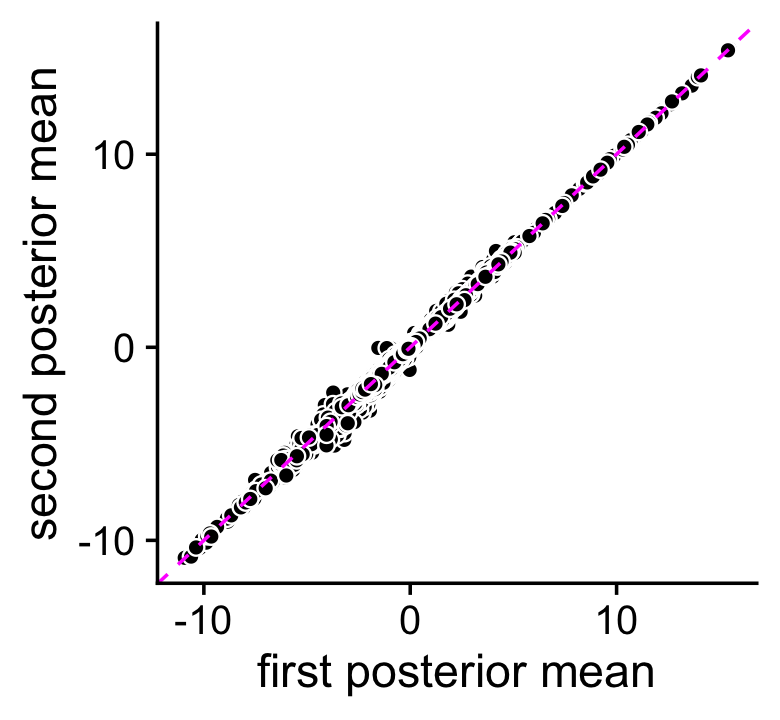
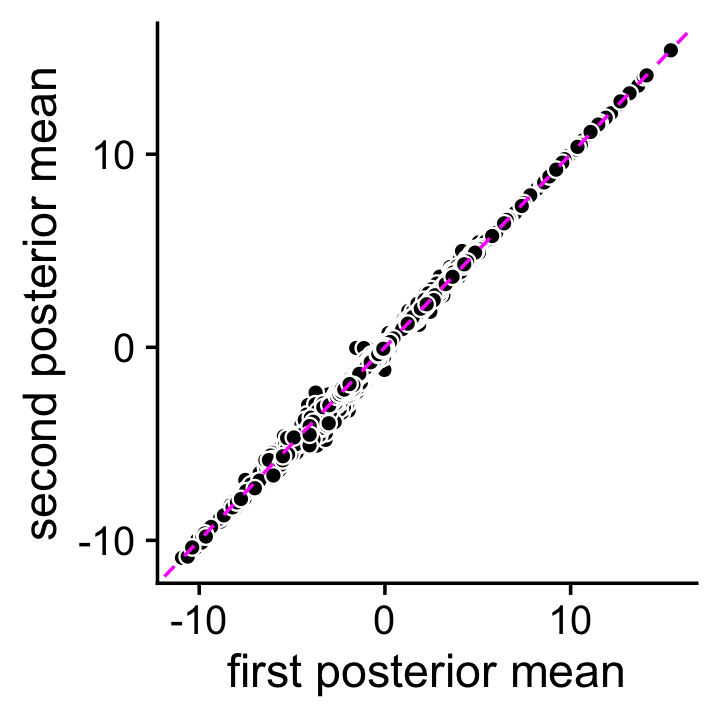
Working on de_analysis_purified_pbmc analysis.

diff --git a/docs/de_analysis_purified_pbmc.html b/docs/de_analysis_purified_pbmc.html
@@ -305,7 +305,7 @@ $(document).ready(function () {
 
 <p>
 <button type="button" class="btn btn-default btn-workflowr btn-workflowr-report" data-toggle="collapse" data-target="#workflowr-report">
-<span class="glyphicon glyphicon-list" aria-hidden="true"></span> workflowr <span class="glyphicon glyphicon-ok text-success" aria-hidden="true"></span>
+<span class="glyphicon glyphicon-list" aria-hidden="true"></span> workflowr <span class="glyphicon glyphicon-exclamation-sign text-danger" aria-hidden="true"></span>
 </button>
 </p>
 <div id="workflowr-report" class="collapse">
@@ -314,7 +314,7 @@ $(document).ready(function () {
 <a data-toggle="tab" href="#summary">Summary</a>
 </li>
 <li>
-<a data-toggle="tab" href="#checks"> Checks <span class="glyphicon glyphicon-ok text-success" aria-hidden="true"></span> </a>
+<a data-toggle="tab" href="#checks"> Checks <span class="glyphicon glyphicon-exclamation-sign text-danger" aria-hidden="true"></span> </a>
 </li>
 <li>
 <a data-toggle="tab" href="#versions">Past versions</a>
@@ -323,10 +323,10 @@ $(document).ready(function () {
 <div class="tab-content">
 <div id="summary" class="tab-pane fade in active">
 <p>
-<strong>Last updated:</strong> 2021-11-21
+<strong>Last updated:</strong> 2021-11-22
 </p>
 <p>
-<strong>Checks:</strong> <span class="glyphicon glyphicon-ok text-success" aria-hidden="true"></span> 7 <span class="glyphicon glyphicon-exclamation-sign text-danger" aria-hidden="true"></span> 0
+<strong>Checks:</strong> <span class="glyphicon glyphicon-ok text-success" aria-hidden="true"></span> 6 <span class="glyphicon glyphicon-exclamation-sign text-danger" aria-hidden="true"></span> 1
 </p>
 <p>
 <strong>Knit directory:</strong> <code>single-cell-topics/analysis/</code> <span class="glyphicon glyphicon-question-sign" aria-hidden="true" title="This is the local directory in which the code in this file was executed."> </span>
@@ -342,12 +342,12 @@ This reproducible <a href="http://rmarkdown.rstudio.com">R Markdown</a> analysis
 <div class="panel panel-default">
 <div class="panel-heading">
 <p class="panel-title">
-<a data-toggle="collapse" data-parent="#workflowr-checks" href="#strongRMarkdownfilestronguptodate"> <span class="glyphicon glyphicon-ok text-success" aria-hidden="true"></span> <strong>R Markdown file:</strong> up-to-date </a>
+<a data-toggle="collapse" data-parent="#workflowr-checks" href="#strongRMarkdownfilestronguncommittedchanges"> <span class="glyphicon glyphicon-exclamation-sign text-danger" aria-hidden="true"></span> <strong>R Markdown file:</strong> uncommitted changes </a>
 </p>
 </div>
-<div id="strongRMarkdownfilestronguptodate" class="panel-collapse collapse">
+<div id="strongRMarkdownfilestronguncommittedchanges" class="panel-collapse collapse">
 <div class="panel-body">
-<p>Great! Since the R Markdown file has been committed to the Git repository, you know the exact version of the code that produced these results.</p>
+<p>The R Markdown file has unstaged changes. To know which version of the R Markdown file created these results, you’ll want to first commit it to the Git repo. If you’re still working on the analysis, you can ignore this warning. When you’re finished, you can run <code>wflow_publish</code> to commit the R Markdown file and build the HTML.</p>
 </div>
 </div>
 </div>
@@ -414,16 +414,16 @@ This reproducible <a href="http://rmarkdown.rstudio.com">R Markdown</a> analysis
 <div class="panel panel-default">
 <div class="panel-heading">
 <p class="panel-title">
-<a data-toggle="collapse" data-parent="#workflowr-checks" href="#strongRepositoryversionstrongahrefhttpsgithubcomstephenslabsinglecelltopicstreef7a5a86cbff1d6abde9046f9d263ee261b03ff65targetblankf7a5a86a"> <span class="glyphicon glyphicon-ok text-success" aria-hidden="true"></span> <strong>Repository version:</strong> <a href="https://github.com/stephenslab/single-cell-topics/tree/f7a5a86cbff1d6abde9046f9d263ee261b03ff65" target="_blank">f7a5a86</a> </a>
+<a data-toggle="collapse" data-parent="#workflowr-checks" href="#strongRepositoryversionstrongahrefhttpsgithubcomstephenslabsinglecelltopicstree454ab6f812972e4374fc2b00b1cc7dd72e41866ftargetblank454ab6fa"> <span class="glyphicon glyphicon-ok text-success" aria-hidden="true"></span> <strong>Repository version:</strong> <a href="https://github.com/stephenslab/single-cell-topics/tree/454ab6f812972e4374fc2b00b1cc7dd72e41866f" target="_blank">454ab6f</a> </a>
 </p>
 </div>
[2 lines of base64/hex data omitted]
 <div class="panel-body">
 <p>
 Great! You are using Git for version control. Tracking code development and connecting the code version to the results is critical for reproducibility.
 </p>
 <p>
-The results in this page were generated with repository version <a href="https://github.com/stephenslab/single-cell-topics/tree/f7a5a86cbff1d6abde9046f9d263ee261b03ff65" target="_blank">f7a5a86</a>. See the <em>Past versions</em> tab to see a history of the changes made to the R Markdown and HTML files.
+The results in this page were generated with repository version <a href="https://github.com/stephenslab/single-cell-topics/tree/454ab6f812972e4374fc2b00b1cc7dd72e41866f" target="_blank">454ab6f</a>. See the <em>Past versions</em> tab to see a history of the changes made to the R Markdown and HTML files.
 </p>
 <p>
 Note that you need to be careful to ensure that all relevant files for the analysis have been committed to Git prior to generating the results (you can use <code>wflow_publish</code> or <code>wflow_git_commit</code>). workflowr only checks the R Markdown file, but you know if there are other scripts or data files that it depends on. Below is the status of the Git repository when the results were generated:
@@ -451,8 +451,7 @@ Untracked files:
     Untracked:  plots/
 
 Unstaged changes:
-    Modified:   analysis/de_analysis_detailed_look.Rmd
-    Modified:   analysis/temp6.R
+    Modified:   analysis/de_analysis_purified_pbmc.Rmd
 
 </code></pre>
 <p>
@@ -491,6 +490,40 @@ Message
 </tr>
 </thead>
 <tbody>
+<tr>
+<td>
+Rmd
+</td>
+<td>
+<a href="https://github.com/stephenslab/single-cell-topics/blob/c30816e5db07a8b957f8eea91318412be3791378/analysis/de_analysis_purified_pbmc.Rmd" target="_blank">c30816e</a>
+</td>
+<td>
+Peter Carbonetto
+</td>
+<td>
+2021-11-21
+</td>
+<td>
+A few small edits.
+</td>
+</tr>
+<tr>
+<td>
+html
+</td>
+<td>
+<a href="https://rawcdn.githack.com/stephenslab/single-cell-topics/0d0c72069543e91cacb46f4034c361e1a4c8f50f/docs/de_analysis_purified_pbmc.html" target="_blank">0d0c720</a>
+</td>
+<td>
+Peter Carbonetto
+</td>
+<td>
+2021-11-21
+</td>
+<td>
+Added scatterplots assessing accuracy of Monte Carlo estimates to
+</td>
+</tr>
 <tr>
 <td>
 Rmd
@@ -637,6 +670,7 @@ workflowr::wflow_publish(“index.Rmd”)
 <p>The aim of this analysis is to understand the differences between a classical differential expresion analysis comparing expression among cell types (implemented using DESEq2) and a differential expression analysis using the topic model, which allows for grades of membership to cell types or cell states.</p>
 <p>Begin by loading the packages and some function definitions used in the analysis.</p>
 <pre class="r"><code>library(Matrix)
+library(DESeq2)
 library(fastTopics)
 library(ggplot2)
 library(cowplot)
@@ -733,7 +767,44 @@ ggplot(pdat,aes(x = postmean1,y = postmean2)) +
   geom_abline(intercept = 0,slope = 1,color = &quot;magenta&quot;,linetype = &quot;dashed&quot;) +
   labs(x = &quot;first posterior mean&quot;,y = &quot;second posterior mean&quot;) +
   theme_cowplot()</code></pre>
-<p><img src="figure/de_analysis_purified_pbmc.Rmd/assess-monte-carlo-1-1.png" width="390" style="display: block; margin: auto;" /></p>
+<p><img src="figure/de_analysis_purified_pbmc.Rmd/assess-monte-carlo-1-1.png" width="360" style="display: block; margin: auto;" /></p>
+<p>
+<button type="button" class="btn btn-default btn-xs btn-workflowr btn-workflowr-fig" data-toggle="collapse" data-target="#fig-assess-monte-carlo-1-1">
+Past versions of assess-monte-carlo-1-1.png
+</button>
+</p>
+<div id="fig-assess-monte-carlo-1-1" class="collapse">
+<div class="table-responsive">
+<table class="table table-condensed table-hover">
+<thead>
+<tr>
+<th>
+Version
+</th>
+<th>
+Author
+</th>
+<th>
+Date
+</th>
+</tr>
+</thead>
+<tbody>
+<tr>
+<td>
+<a href="https://github.com/stephenslab/single-cell-topics/blob/0d0c72069543e91cacb46f4034c361e1a4c8f50f/docs/figure/de_analysis_purified_pbmc.Rmd/assess-monte-carlo-1-1.png" target="_blank">0d0c720</a>
+</td>
+<td>
+Peter Carbonetto
+</td>
+<td>
+2021-11-21
+</td>
+</tr>
+</tbody>
+</table>
+</div>
+</div>
 <p>The <span class="math inline">\(z\)</span>-scores on the other hand are estimated less consistently, presumably because accurately calculating uncertainty in the estimates is harder. Despite this, the <span class="math inline">\(z\)</span>-scores are still are consistent enough in that it is rare for an LFC to have an lfsr less than 0.05 in one MCMC simulation and not the other (these are the red points in the scatterplot).</p>
 <pre class="r"><code>pdat &lt;- data.frame(z1 = clamp(as.vector(de1$z),-100,+100),
                    z2 = clamp(as.vector(de2$z),-100,+100),
@@ -744,14 +815,54 @@ ggplot(pdat,aes(x = z1,y = z2,fill = lfsr)) +
   scale_fill_manual(values = c(&quot;darkblue&quot;,&quot;tomato&quot;,&quot;dodgerblue&quot;),
                     na.value = &quot;white&quot;) +
   labs(x = &quot;first z-score&quot;,y = &quot;second z-score&quot;,fill = &quot;lfsr &lt; 0.05&quot;) +
-  theme_cowplot()
-# Warning: Removed 1546 rows containing missing values (geom_point).</code></pre>
-<p><img src="figure/de_analysis_purified_pbmc.Rmd/assess-monte-carlo-3-1.png" width="420" style="display: block; margin: auto;" /></p>
-<p><em>Note:</em> For better visualization <span class="math inline">\(z\)</span>-scores larger than 100 or smaller than -100 are shown as 100 (or -100).</p>
+  theme_cowplot()</code></pre>
+<p><img src="figure/de_analysis_purified_pbmc.Rmd/assess-monte-carlo-3-1.png" width="540" style="display: block; margin: auto;" /></p>
+<p>
+<button type="button" class="btn btn-default btn-xs btn-workflowr btn-workflowr-fig" data-toggle="collapse" data-target="#fig-assess-monte-carlo-3-1">
+Past versions of assess-monte-carlo-3-1.png
+</button>
+</p>
+<div id="fig-assess-monte-carlo-3-1" class="collapse">
+<div class="table-responsive">
+<table class="table table-condensed table-hover">
+<thead>
+<tr>
+<th>
+Version
+</th>
+<th>
+Author
+</th>
+<th>
+Date
+</th>
+</tr>
+</thead>
+<tbody>
+<tr>
+<td>
+<a href="https://github.com/stephenslab/single-cell-topics/blob/0d0c72069543e91cacb46f4034c361e1a4c8f50f/docs/figure/de_analysis_purified_pbmc.Rmd/assess-monte-carlo-3-1.png" target="_blank">0d0c720</a>
+</td>
+<td>
+Peter Carbonetto
+</td>
+<td>
+2021-11-21
+</td>
+</tr>
+</tbody>
+</table>
+</div>
+</div>
+<p>Note that for better visualization <span class="math inline">\(z\)</span>-scores larger than 100 (or smaller than -100) are shown as 100 (or -100).</p>
 </div>
 <div id="deseq2-vs.fasttopics" class="section level2">
 <h2>DESeq2 vs. fastTopics</h2>
 <p><em>Next:</em> Compare classical DE analysis (DESeq2) against DE analysis allowing for grades of membership.</p>
+<pre class="r"><code>load(&quot;../output/pbmc-purified/de-pbmc-purified-seed=1.RData&quot;)</code></pre>
+<ul>
+<li>Compare histogram of DESeq2 z-scores against fastTopics z-scores.</li>
+</ul>
 <br>
 <p>
 <button type="button" class="btn btn-default btn-workflowr btn-workflowr-sessioninfo" data-toggle="collapse" data-target="#workflowr-sessioninfo" style="display: block;">
@@ -772,32 +883,54 @@ ggplot(pdat,aes(x = z1,y = z2,fill = lfsr)) +
 # [1] en_US.UTF-8/en_US.UTF-8/en_US.UTF-8/C/en_US.UTF-8/en_US.UTF-8
 # 
 # attached base packages:
-# [1] stats     graphics  grDevices utils     datasets  methods   base     
+# [1] parallel  stats4    stats     graphics  grDevices utils     datasets 
+# [8] methods   base     
 # 
 # other attached packages:
-# [1] cowplot_1.0.0     ggplot2_3.3.5     fastTopics_0.6-74 Matrix_1.2-18    
+#  [1] cowplot_1.0.0               ggplot2_3.3.5              
+#  [3] fastTopics_0.6-79           DESeq2_1.33.5              
+#  [5] SummarizedExperiment_1.16.1 DelayedArray_0.12.3        
+#  [7] BiocParallel_1.18.1         matrixStats_0.61.0         
+#  [9] Biobase_2.46.0              GenomicRanges_1.38.0       
+# [11] GenomeInfoDb_1.22.1         IRanges_2.20.2             
+# [13] S4Vectors_0.24.4            BiocGenerics_0.32.0        
+# [15] Matrix_1.2-18              
 # 
 # loaded via a namespace (and not attached):
-#  [1] httr_1.4.2         tidyr_1.1.3        jsonlite_1.7.2     viridisLite_0.3.0 
-#  [5] RcppParallel_4.4.2 assertthat_0.2.1   mixsqp_0.3-46      yaml_2.2.0        
-#  [9] progress_1.2.2     ggrepel_0.9.1      pillar_1.6.2       backports_1.1.5   
-# [13] lattice_0.20-38    quantreg_5.54      glue_1.4.2         quadprog_1.5-8    
-# [17] digest_0.6.23      promises_1.1.0     colorspace_1.4-1   htmltools_0.4.0   
-# [21] httpuv_1.5.2       pkgconfig_2.0.3    invgamma_1.1       SparseM_1.78      
-# [25] purrr_0.3.4        scales_1.1.0       whisker_0.4        later_1.0.0       
-# [29] Rtsne_0.15         MatrixModels_0.4-1 git2r_0.26.1       tibble_3.1.3      
-# [33] farver_2.0.1       generics_0.0.2     ellipsis_0.3.2     withr_2.4.2       
-# [37] ashr_2.2-51        pbapply_1.5-1      lazyeval_0.2.2     magrittr_2.0.1    
-# [41] crayon_1.4.1       mcmc_0.9-6         evaluate_0.14      fs_1.3.1          
-# [45] fansi_0.4.0        MASS_7.3-51.4      truncnorm_1.0-8    tools_3.6.2       
-# [49] data.table_1.12.8  prettyunits_1.1.1  hms_1.1.0          lifecycle_1.0.0   
-# [53] stringr_1.4.0      MCMCpack_1.4-5     plotly_4.9.2       munsell_0.5.0     
-# [57] irlba_2.3.3        compiler_3.6.2     rlang_0.4.11       grid_3.6.2        
-# [61] htmlwidgets_1.5.1  labeling_0.3       rmarkdown_2.3      gtable_0.3.0      
-# [65] DBI_1.1.0          R6_2.4.1           knitr_1.26         dplyr_1.0.7       
-# [69] utf8_1.1.4         workflowr_1.6.2    rprojroot_1.3-2    stringi_1.4.3     
-# [73] parallel_3.6.2     SQUAREM_2017.10-1  Rcpp_1.0.7         vctrs_0.3.8       
-# [77] tidyselect_1.1.1   xfun_0.11          coda_0.19-3</code></pre>
+#   [1] Rtsne_0.15             colorspace_1.4-1       ellipsis_0.3.2        
+#   [4] rprojroot_1.3-2        XVector_0.26.0         fs_1.3.1              
+#   [7] rstudioapi_0.13        farver_2.0.1           MatrixModels_0.4-1    
+#  [10] ggrepel_0.9.1          bit64_0.9-7            AnnotationDbi_1.48.0  
+#  [13] fansi_0.4.0            splines_3.6.2          geneplotter_1.64.0    
+#  [16] knitr_1.26             jsonlite_1.7.2         workflowr_1.6.2       
+#  [19] mcmc_0.9-6             annotate_1.64.0        ashr_2.2-51           
+#  [22] compiler_3.6.2         httr_1.4.2             backports_1.1.5       
+#  [25] assertthat_0.2.1       lazyeval_0.2.2         later_1.0.0           
+#  [28] prettyunits_1.1.1      htmltools_0.4.0        quantreg_5.54         
+#  [31] tools_3.6.2            coda_0.19-3            gtable_0.3.0          
+#  [34] glue_1.4.2             GenomeInfoDbData_1.2.2 dplyr_1.0.7           
+#  [37] Rcpp_1.0.7             vctrs_0.3.8            xfun_0.11             
+#  [40] stringr_1.4.0          ps_1.6.0               lifecycle_1.0.0       
+#  [43] irlba_2.3.3            XML_3.99-0.3           zlibbioc_1.32.0       
+#  [46] MASS_7.3-51.4          scales_1.1.0           hms_1.1.0             
+#  [49] promises_1.1.0         SparseM_1.78           RColorBrewer_1.1-2    
+#  [52] yaml_2.2.0             memoise_1.1.0          pbapply_1.5-1         
+#  [55] stringi_1.4.3          RSQLite_2.2.0          SQUAREM_2017.10-1     
+#  [58] genefilter_1.68.0      truncnorm_1.0-8        rlang_0.4.11          
+#  [61] pkgconfig_2.0.3        bitops_1.0-6           evaluate_0.14         
+#  [64] lattice_0.20-38        invgamma_1.1           purrr_0.3.4           
+#  [67] labeling_0.3           htmlwidgets_1.5.1      bit_1.1-15.2          
+#  [70] processx_3.5.2         tidyselect_1.1.1       magrittr_2.0.1        
+#  [73] R6_2.4.1               generics_0.0.2         DBI_1.1.0             
+#  [76] withr_2.4.2            pillar_1.6.2           whisker_0.4           
+#  [79] survival_3.1-8         RCurl_1.98-1.2         mixsqp_0.3-46         
+#  [82] tibble_3.1.3           crayon_1.4.1           utf8_1.1.4            
+#  [85] plotly_4.9.2           rmarkdown_2.3          progress_1.2.2        
+#  [88] locfit_1.5-9.4         grid_3.6.2             data.table_1.12.8     
+#  [91] blob_1.2.1             callr_3.7.0            git2r_0.26.1          
+#  [94] digest_0.6.23          xtable_1.8-4           tidyr_1.1.3           
+#  [97] httpuv_1.5.2           MCMCpack_1.4-5         RcppParallel_4.4.2    
+# [100] munsell_0.5.0          viridisLite_0.3.0      quadprog_1.5-8</code></pre>
 </div>
 </div>
 
